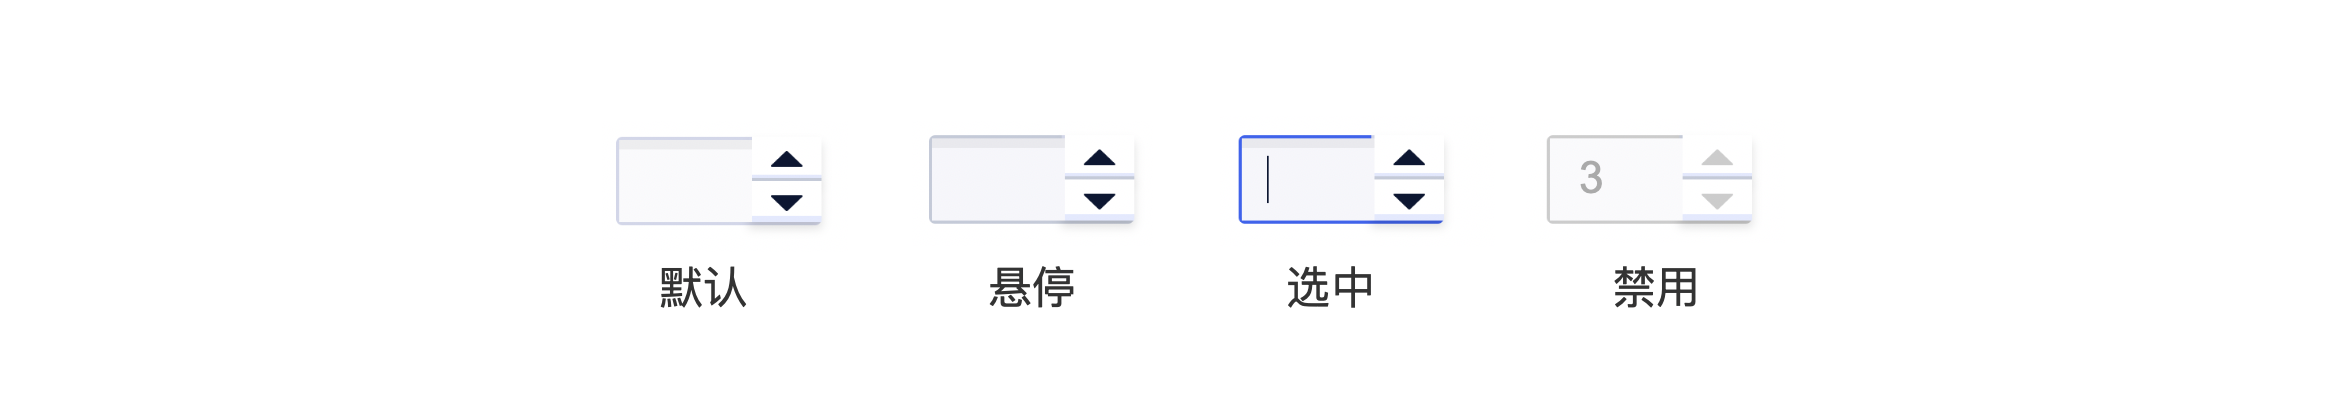
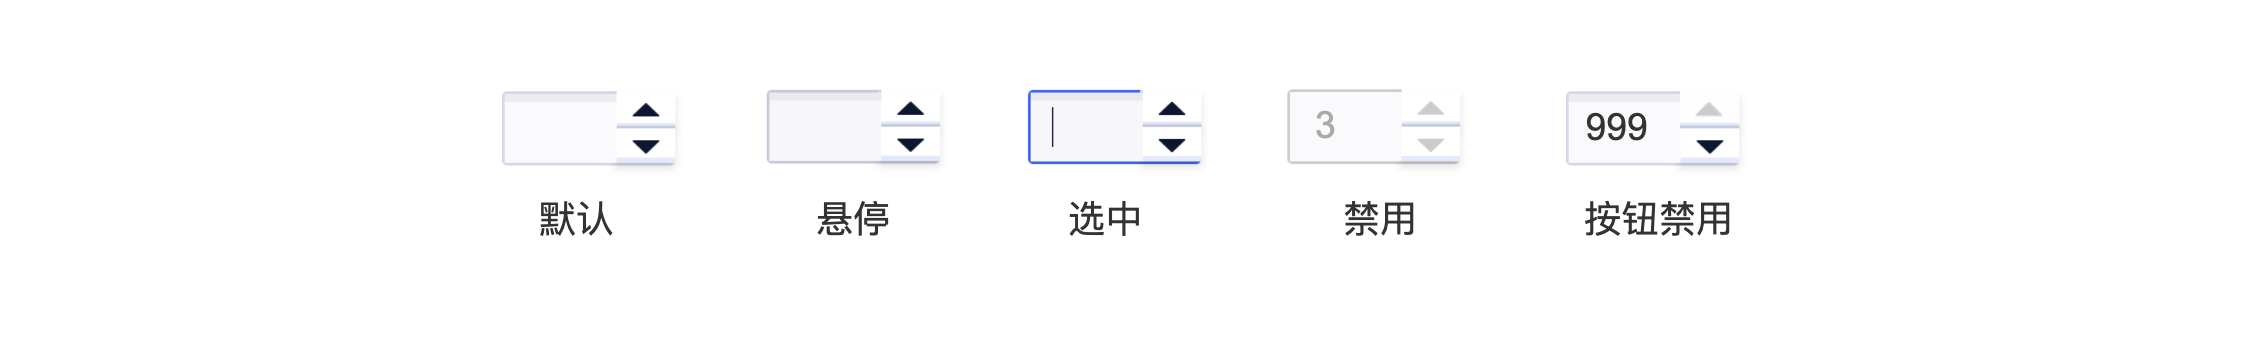
211201

diff --git a/content/component/list/NumberInput/index.md b/content/component/list/NumberInput/index.md
@@ -49,12 +49,13 @@ description: "通过鼠标或键盘输入数字的输入组件。"
 
 
 
-| 状态     | 说明                               | 作用                 |
-| :------- | :--------------------------------- | -------------------- |
-| 默认状态 | 组件初始状态                       | -                    |
-| 悬停状态 | 鼠标经过选择器时，切换至该状态     | 暗示用户行动点可操作 |
-| 选中状态 | 元素切换至选中                     | 表示其后的项目被选中 |
-| 禁用状态 | 当前行动点不可用，建议配合提示说明 | 表示当前选项不可选择 |
+| 状态     | 说明                               | 作用                            |
+| :------- | :--------------------------------- | ------------------------------- |
+| 默认状态 | 组件初始状态                       | -                               |
+| 悬停状态 | 鼠标经过选择器时，切换至该状态     | 暗示用户行动点可操作            |
+| 选中状态 | 元素切换至选中                     | 表示其后的项目被选中            |
+| 禁用状态 | 当前行动点不可用，建议配合提示说明 | 表示当前选项不可选择            |
+| 按钮禁用 | 当数值达到边界值时，对应按钮禁用   | 暗示与禁止用户不能继续增/减数值 |
 
 
 
